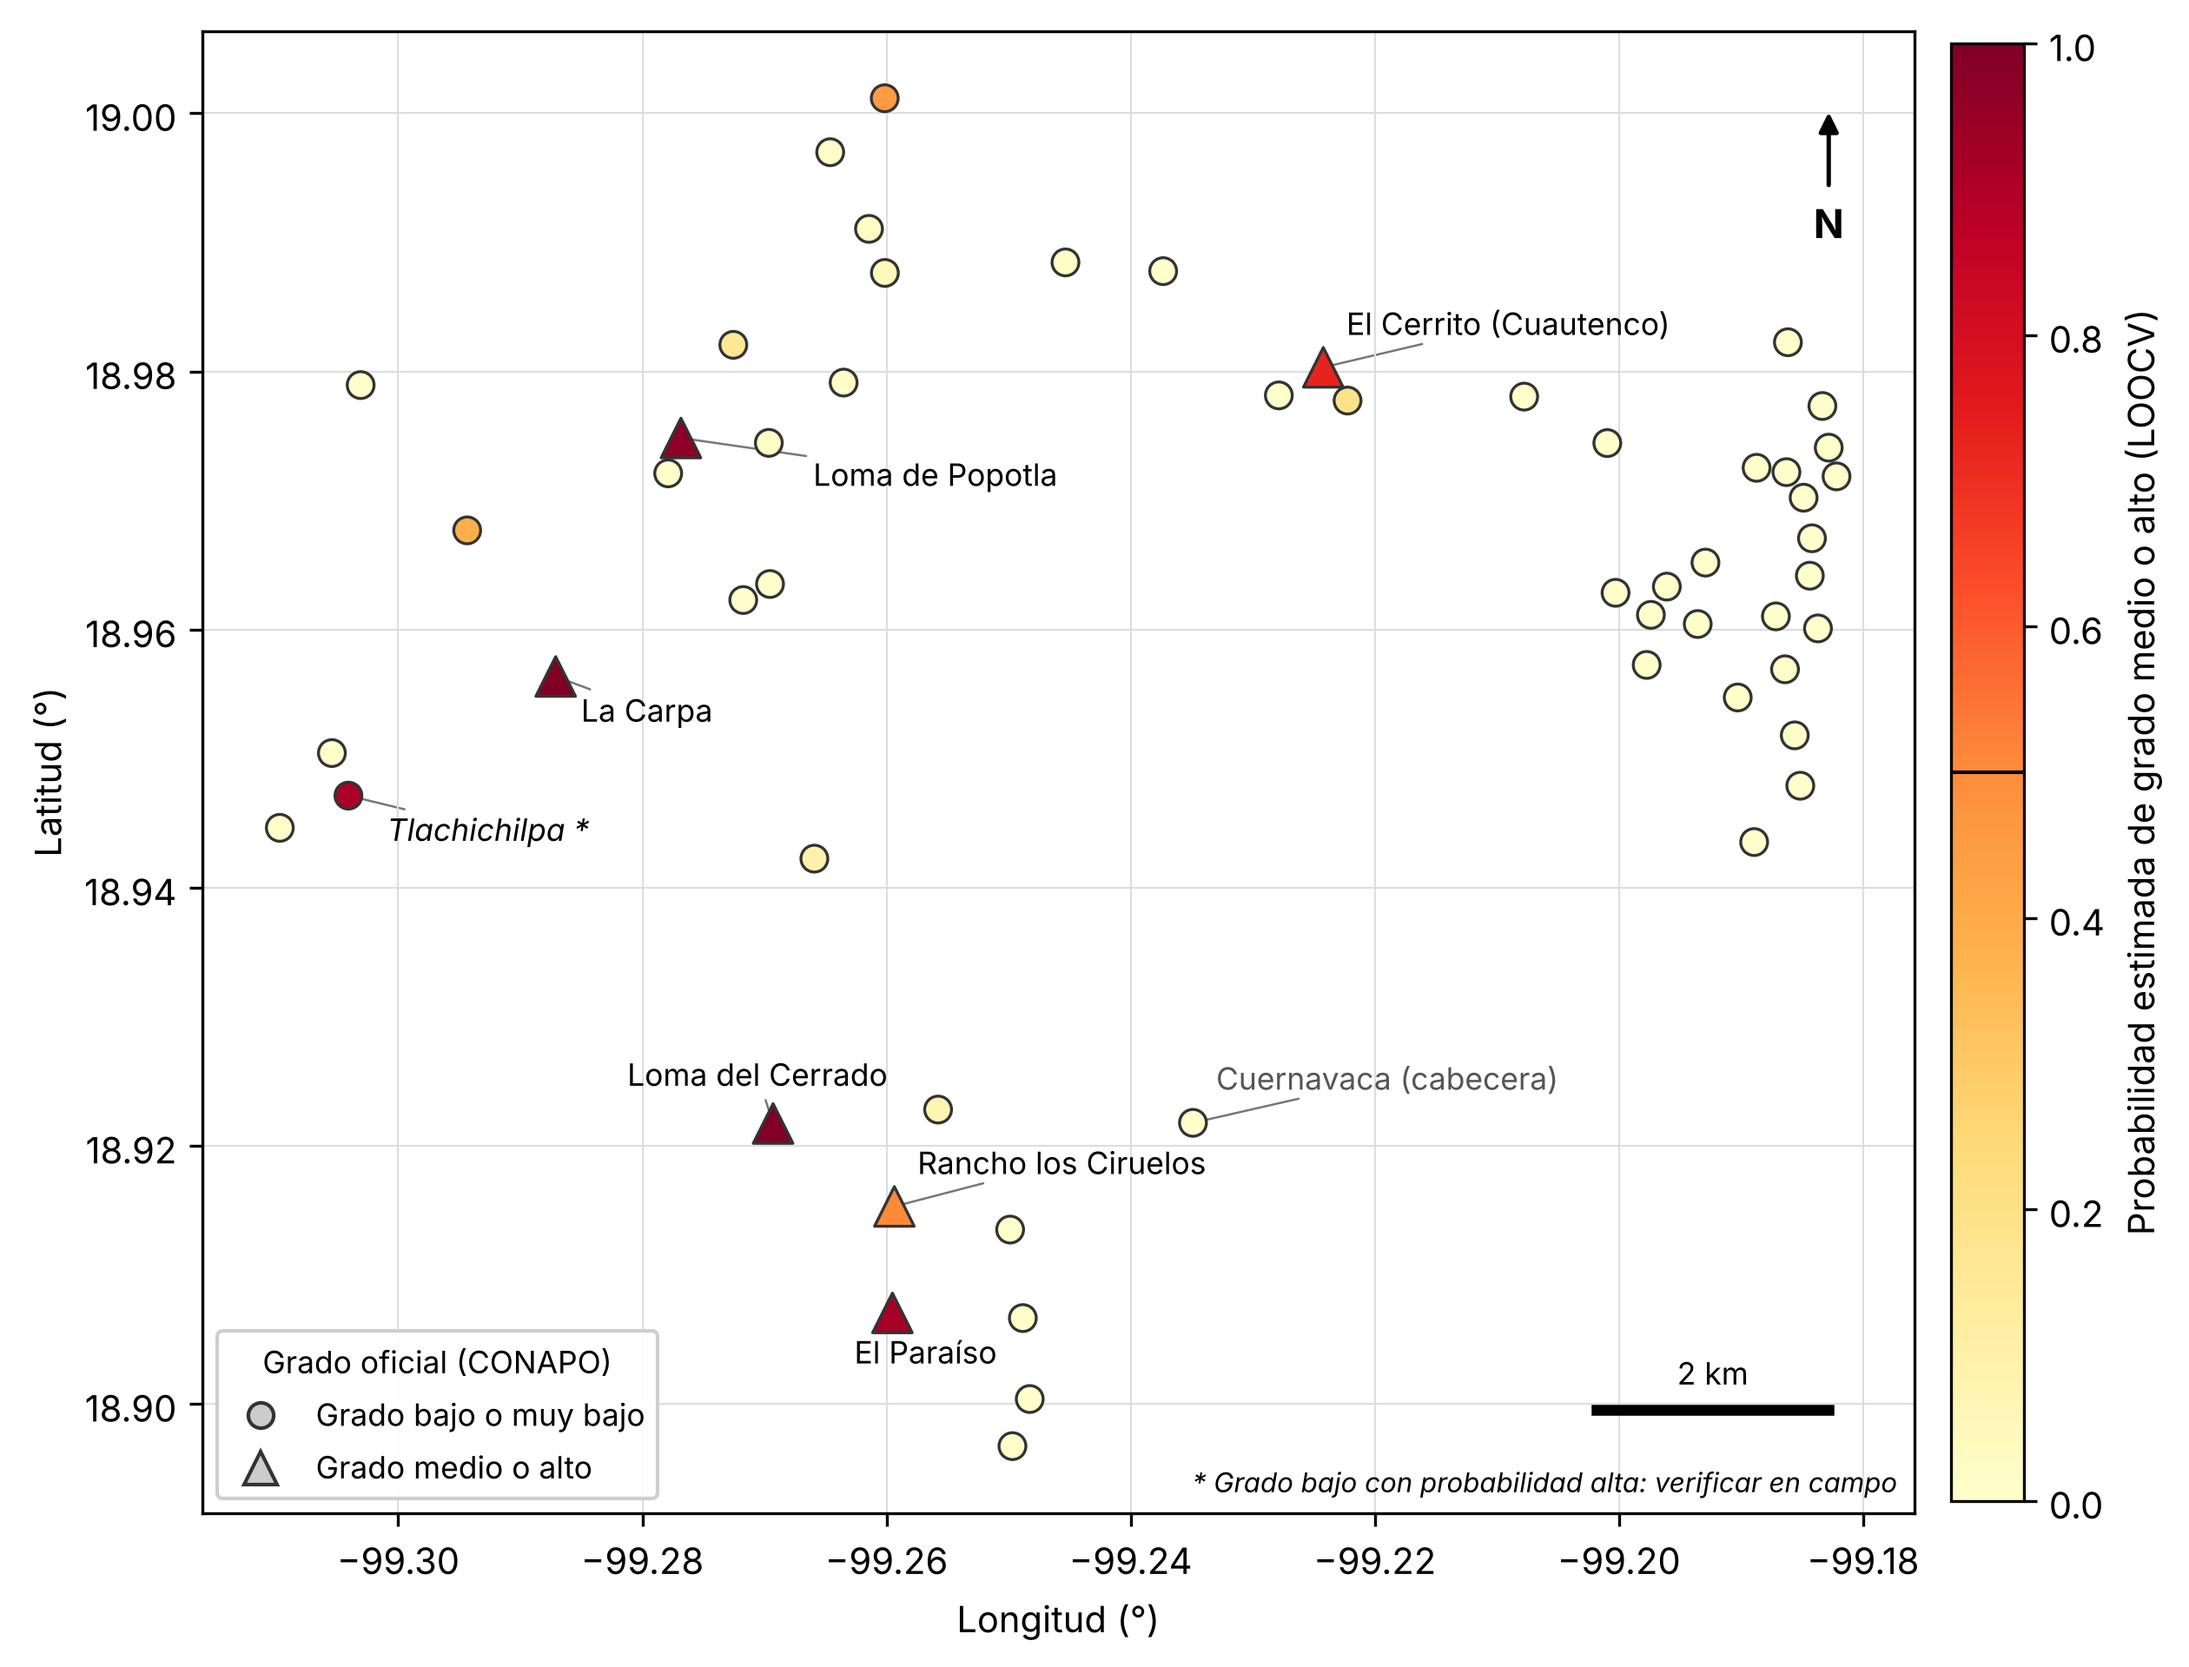
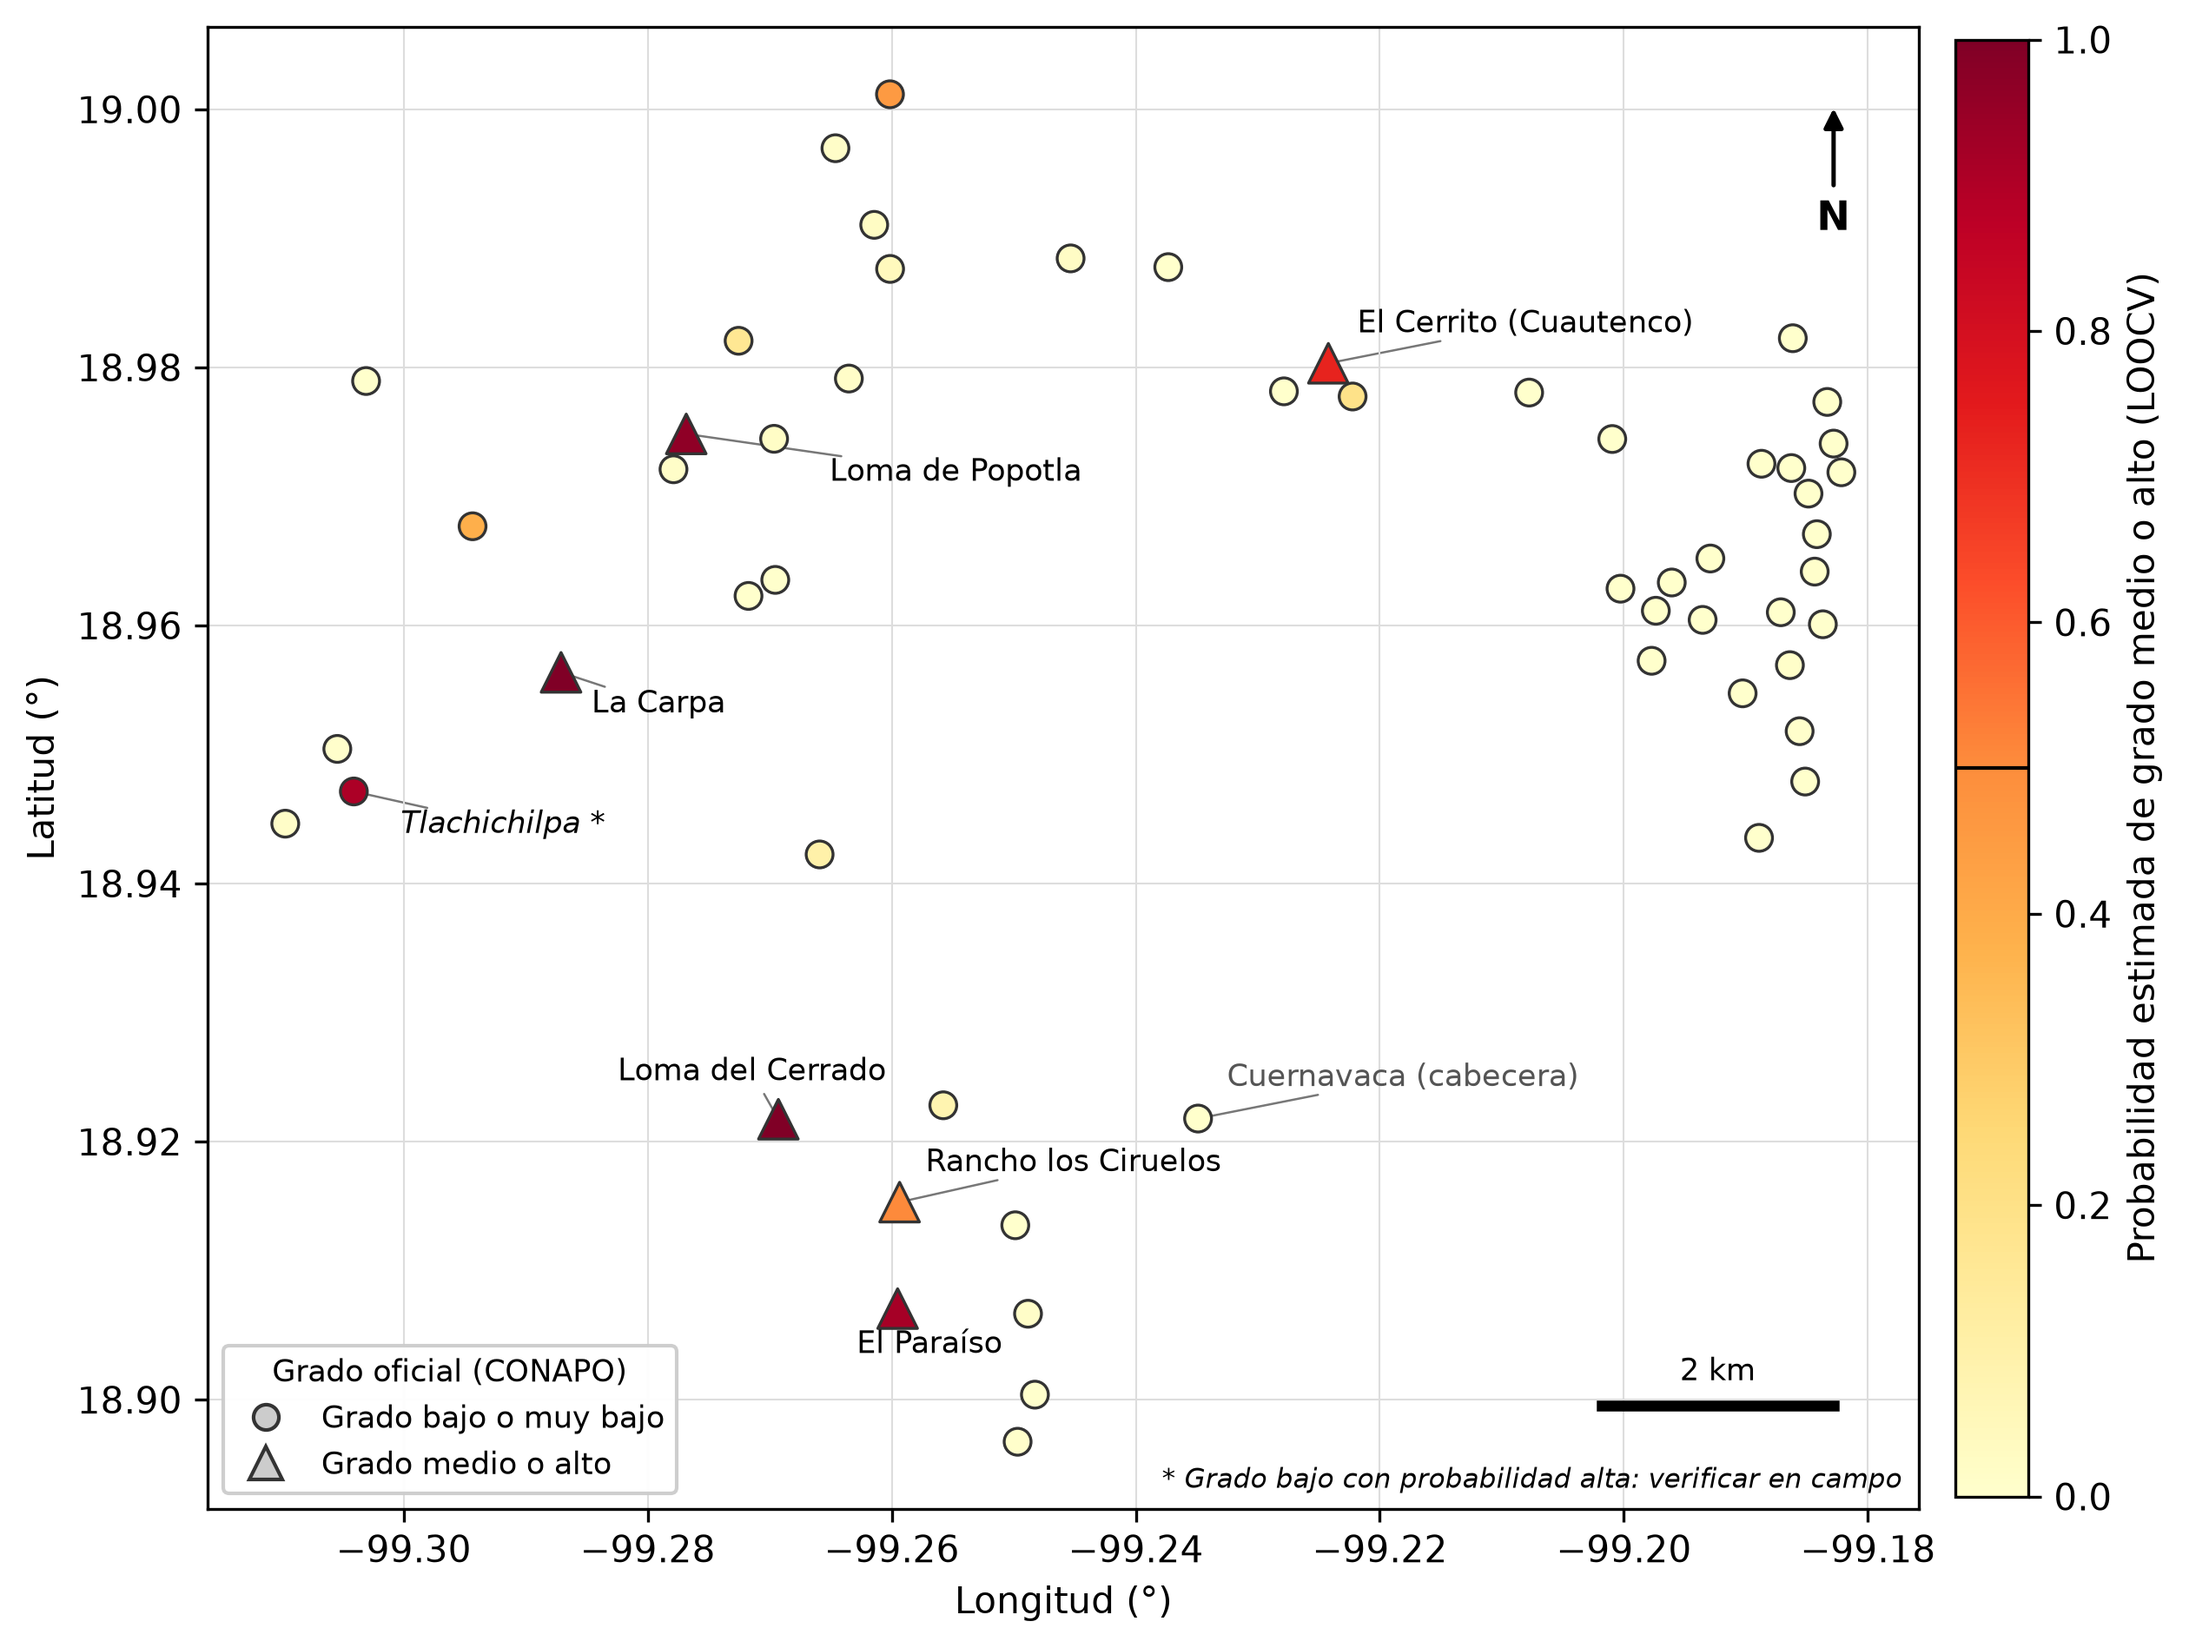
docs: diferenciar comandos python/python3 por SO en README

diff --git a/figuras_articulo.py b/figuras_articulo.py
@@ -1,0 +1,85 @@
+"""Figuras del articulo a partir de los resultados del estudio.
+
+Requiere haber ejecutado antes ejecutar.py (y mapa.py para el mapa).
+Uso:
+    python figuras_articulo.py
+Genera en resultados/:
+    image_3.png  matrices de confusion (Baseline RF y RL + ROS)
+    image_4.png  valores SHAP medios absolutos (RF con ponderacion)
+    image_5.png  copia del mapa de probabilidad (si existe)
+"""
+import shutil
+
+import matplotlib
+matplotlib.use("Agg")
+import matplotlib.pyplot as plt
+import numpy as np
+import pandas as pd
+
+import config
+
+plt.rcParams.update({"font.family": "serif", "font.size": 9})
+R = config.CARPETA_RESULTADOS
+
+
+def matrices_confusion():
+    """Matrices de confusion agregadas de las 56 predicciones LOOCV."""
+    t = pd.read_csv(R / "16_2_resultados_loocv.csv")
+    casos = [("RF", "ninguna", "Baseline (Random Forest)"),
+             ("RL", "ROS", "Regresión Logística + ROS")]
+    fig, axs = plt.subplots(1, 2, figsize=(5.6, 2.7))
+    for ax, (modelo, estrategia, titulo) in zip(axs, casos):
+        r = t[(t.Modelo == modelo) & (t.Estrategia == estrategia)].iloc[0]
+        m = np.array([[r.VN, r.FP], [r.FN, r.VP]])
+        ax.imshow(m, cmap="Blues", vmin=0, vmax=60)
+        for i in range(2):
+            for j in range(2):
+                ax.text(j, i, int(m[i, j]), ha="center", va="center", fontsize=12,
+                        color="white" if m[i, j] > 30 else "black")
+        ax.set_xticks([0, 1])
+        ax.set_xticklabels(["Pred. 0", "Pred. 1"])
+        ax.set_yticks([0, 1])
+        ax.set_yticklabels(["Real 0", "Real 1"])
+        ax.set_title(f"{titulo}\nExactitud = {r.Exactitud:.3f}; Recall = {r.Recall:.2f}",
+                     fontsize=8.5)
+    fig.tight_layout()
+    fig.savefig(R / "image_3.png", dpi=300)
+    plt.close(fig)
+
+
+def grafica_shap():
+    """Barras con el valor SHAP medio absoluto; resalta las tres principales."""
+    sh = pd.read_csv(R / "16_3_shap.csv").sort_values("SHAP_medio_abs")
+    principales = set(sh.Variable.tail(3))
+    colores = ["#1f4e79" if v in principales else "#9fb8d6" for v in sh.Variable]
+    fig, ax = plt.subplots(figsize=(4.4, 2.5))
+    ax.barh(sh.Variable, sh.SHAP_medio_abs, color=colores)
+    for y, v in enumerate(sh.SHAP_medio_abs):
+        ax.text(v + 0.002, y, f"{v:.3f}", va="center", fontsize=7)
+    ax.set_xlabel("Valor SHAP medio absoluto", fontsize=8.5)
+    ax.tick_params(labelsize=8)
+    ax.grid(axis="x", color="#e5e5e5")
+    ax.set_axisbelow(True)
+    for lado in ["top", "right"]:
+        ax.spines[lado].set_visible(False)
+    fig.tight_layout()
+    fig.savefig(R / "image_4.png", dpi=300)
+    plt.close(fig)
+
+
+def copiar_mapa():
+    """Copia el mapa generado por mapa.py con el nombre que usa el articulo."""
+    origen = R / "mapa_probabilidad.png"
+    if origen.exists():
+        shutil.copy(origen, R / "image_5.png")
+        return True
+    return False
+
+
+if __name__ == "__main__":
+    matrices_confusion()
+    grafica_shap()
+    mapa = copiar_mapa()
+    print(f"Figuras guardadas en: {R}")
+    if not mapa:
+        print("Aviso: no se encontró mapa_probabilidad.png; ejecuta antes mapa.py.")

diff --git a/README.md b/README.md
@@ -77,7 +77,10 @@ pip install -r requirements.txt
 ### Ejecutar el estudio completo
 
 ```bash
+# Windows:
 python ejecutar.py
+# Linux / macOS:
+python3 ejecutar.py
 ```
 
 Tarda alrededor de **20 minutos**, sobre todo por la evaluación de estabilidad (90 particiones × 25 configuraciones).
@@ -86,10 +89,10 @@ Tarda alrededor de **20 minutos**, sobre todo por la evaluación de estabilidad 
 
 | Comando | Qué hace |
 |---|---|
-| `python ejecutar.py` | Estudio completo |
-| `python ejecutar.py --sin-estabilidad` | Omite la validación repetida (≈ 8 minutos) |
-| `python ejecutar.py --datos ruta/otro.xlsx` | Usa otro archivo de datos con la misma estructura |
-| `python ejecutar.py --iter iter_17_cpv2020_csv.zip` | Además genera el mapa |
+| `python ejecutar.py` / `python3 ejecutar.py` | Estudio completo |
+| `python ejecutar.py --sin-estabilidad` / `python3 ejecutar.py --sin-estabilidad` | Omite la validación repetida (≈ 8 minutos) |
+| `python ejecutar.py --datos ruta/otro.xlsx` / `python3 ejecutar.py --datos ruta/otro.xlsx` | Usa otro archivo de datos con la misma estructura |
+| `python ejecutar.py --iter iter_17_cpv2020_csv.zip` / `python3 ejecutar.py --iter iter_17_cpv2020_csv.zip` | Además genera el mapa |
 
 ### Generar el mapa
 
@@ -97,7 +100,7 @@ El mapa necesita las coordenadas de las localidades, que vienen en los **Princip
 
 1. Descarga el archivo de Morelos en formato CSV desde el sitio del INEGI (*Censo de Población y Vivienda 2020 → Datos abiertos → ITER → Morelos*). El archivo se llama `iter_17_cpv2020_csv.zip`.
 2. Colócalo en la carpeta del proyecto, **sin descomprimir**.
-3. Ejecuta `python ejecutar.py --iter iter_17_cpv2020_csv.zip`, o solo el mapa con `python mapa.py iter_17_cpv2020_csv.zip` (requiere haber corrido antes `ejecutar.py`).
+3. Ejecuta `python ejecutar.py --iter iter_17_cpv2020_csv.zip` (Windows) o `python3 ejecutar.py --iter iter_17_cpv2020_csv.zip` (Linux/macOS), o solo el mapa con `python mapa.py iter_17_cpv2020_csv.zip` / `python3 mapa.py iter_17_cpv2020_csv.zip` (requiere haber corrido antes `ejecutar.py`).
 
 ---
 
